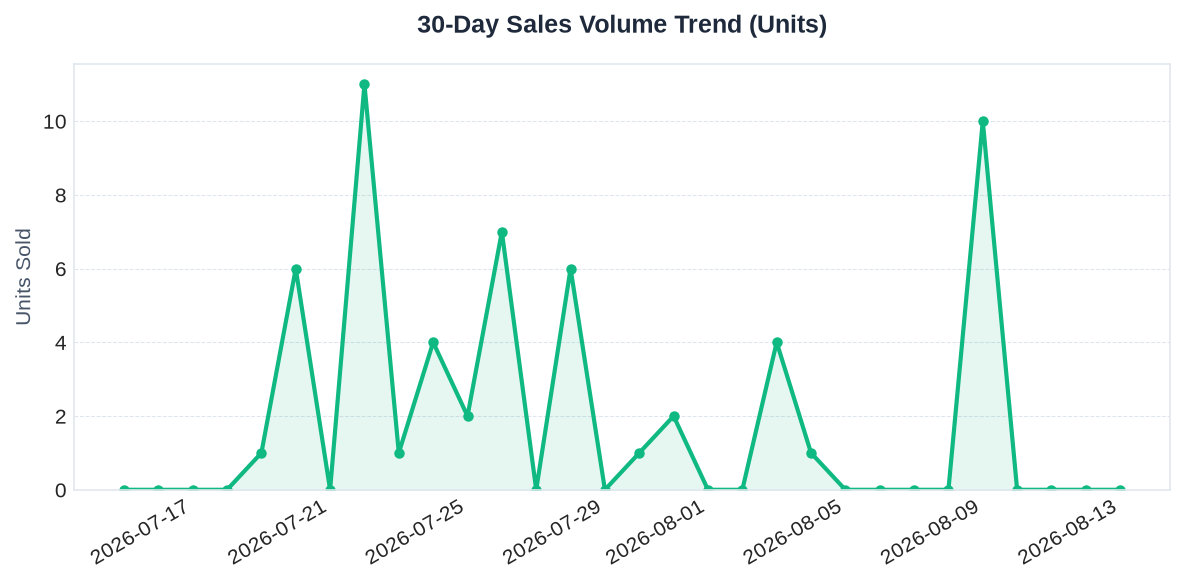
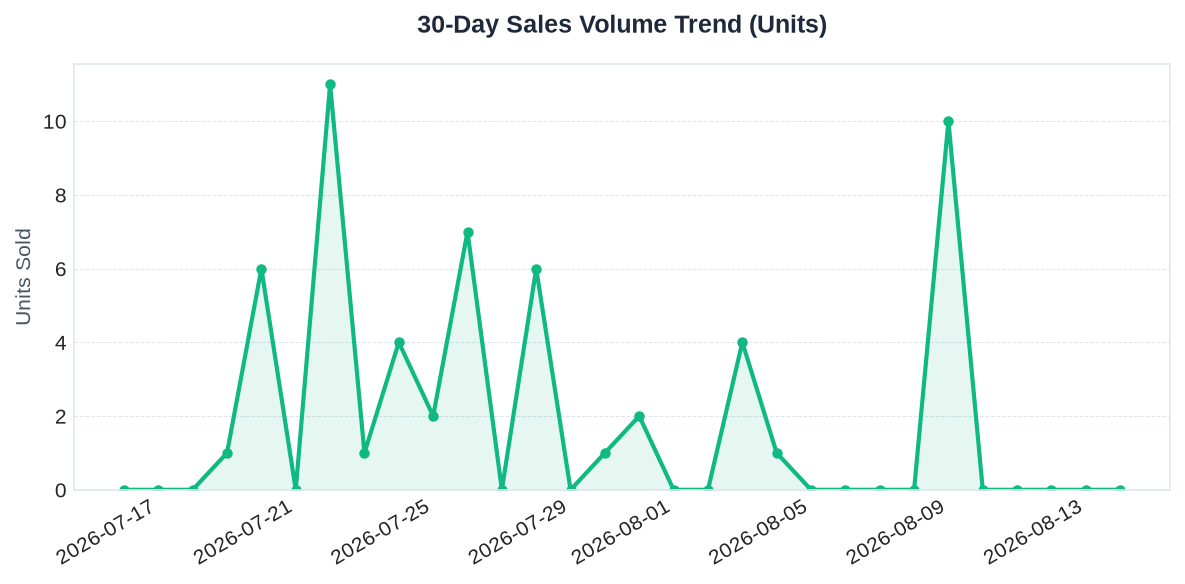
remove hardcoded lookbook

diff --git a/frontend/src/components/LuxuryGallery.jsx b/frontend/src/components/LuxuryGallery.jsx
@@ -151,60 +151,7 @@ export const LuxuryGallery = React.memo(({ items: propItems }) => {
         link: item.link
       }));
     }
-    return {
-      en: [
-        {
-          id: 1,
-          title: "The Royal Emerald Choker",
-          tag: "Imperial Collection",
-          image: "/luxury_emerald_necklace.png",
-          description: "Intricately detailed 22K gold featuring handpicked deep Colombian emeralds and brilliant cut marquise diamonds.",
-          details: ["Metal: 22K Yellow Gold", "Gemstone: Emerald 12.4 Carats", "Diamonds: VVS Clarity, F-G Color", "Timepiece: Handcrafted by Master Artisans (140 hours)"]
-        },
-        {
-          id: 2,
-          title: "The Queen's Bridal Trousseau",
-          tag: "Heritage Craft",
-          image: "/luxury_bridal_set.png",
-          description: "A breathtaking bridal set with fine uncut diamonds (polki) and dangling natural Basra pearl embellishments.",
-          details: ["Metal: 22K Kundan Gold", "Stones: Certified Uncut Polki Diamonds", "Accents: Basra Pearls & Rubies", "Fit: Custom Made for Regal Brides"]
-        },
-        {
-          id: 3,
-          title: "The Infinite Solitaire Band",
-          tag: "Modern Romance",
-          image: "/luxury_solitaire_ring.png",
-          description: "A flawless 4-carat round brilliant cut diamond set in a minimal double-claw platinum setting.",
-          details: ["Metal: Platinum 950", "Center Stone: 4.2 Carat Diamond", "Cut: Excellent Ideal Cut", "Certification: GIA Inspected & Laser Inscribed"]
-        }
-      ],
-      hi: [
-        {
-          id: 1,
-          title: "शाही पन्ना चोकर",
-          tag: "शाही संग्रह",
-          image: "/luxury_emerald_necklace.png",
-          description: "चुनिंदा कोलंबियाई पन्ने और चमकदार हीरे से जड़ा हुआ 22 कैरेट सोने का बारीक नक्काशीदार आभूषण।",
-          details: ["धातु: 22K पीला सोना", "रत्न: पन्ना 12.4 कैरेट", "हीरा: VVS स्पष्टता, F-G रंग", "निर्माण: मास्टर कारीगरों द्वारा हस्तनिर्मित (140 घंटे)"]
-        },
-        {
-          id: 2,
-          title: "राजकुमारी दुल्हन का सेट",
-          tag: "विरासत शिल्प",
-          image: "/luxury_bridal_set.png",
-          description: "बिना कटे हीरों (पोलकी) और लटकते हुए प्राकृतिक बसरा मोती से सजाया गया एक शानदार दुल्हन सेट।",
-          details: ["धातु: 22K कुंदन सोना", "पत्थर: प्रमाणित अनकट पोलकी हीरे", "विवरण: बसरा मोती और माणिक्य", "फिट: दुल्हन के लिए अनुकूलित"]
-        },
-        {
-          id: 3,
-          title: "अनंत सॉलिटेयर रिंग",
-          tag: "आधुनिक रोमांस",
-          image: "/luxury_solitaire_ring.png",
-          description: "न्यूनतम डबल-क्लॉ प्लैटिनम सेटिंग में एक त्रुटिहीन 4-कैरेट गोल चमकदार कट हीरा।",
-          details: ["धातु: प्लैटिनम 950", "मुख्य पत्थर: 4.2 कैरेट हीरा", "कट: उत्कृष्ट आइडियल कट", "प्रमाणन: जीआईए द्वारा प्रमाणित"]
-        }
-      ]
-    }[language === 'hi' ? 'hi' : 'en'];
+    return [];
   }, [propItems, language]);
 
   return (
